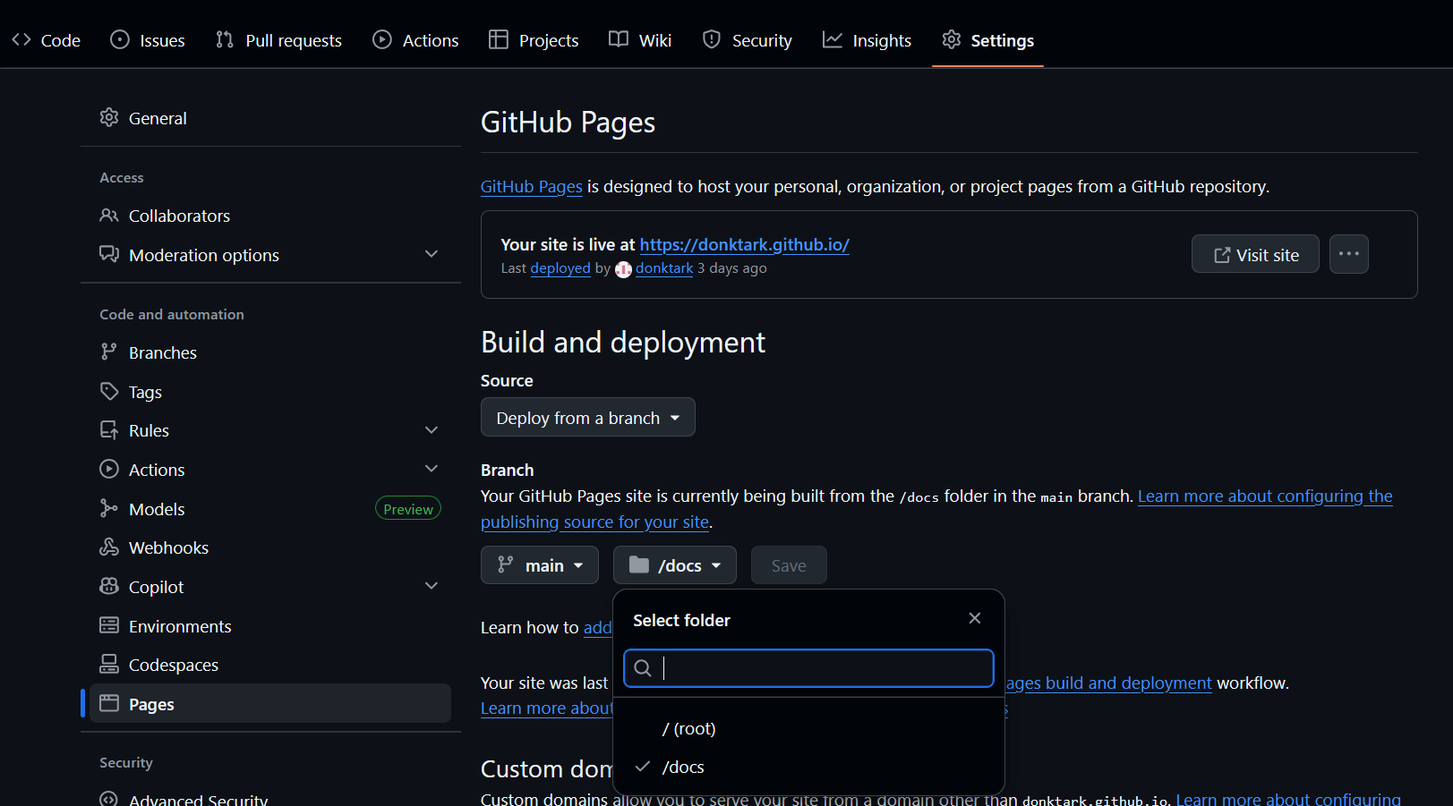
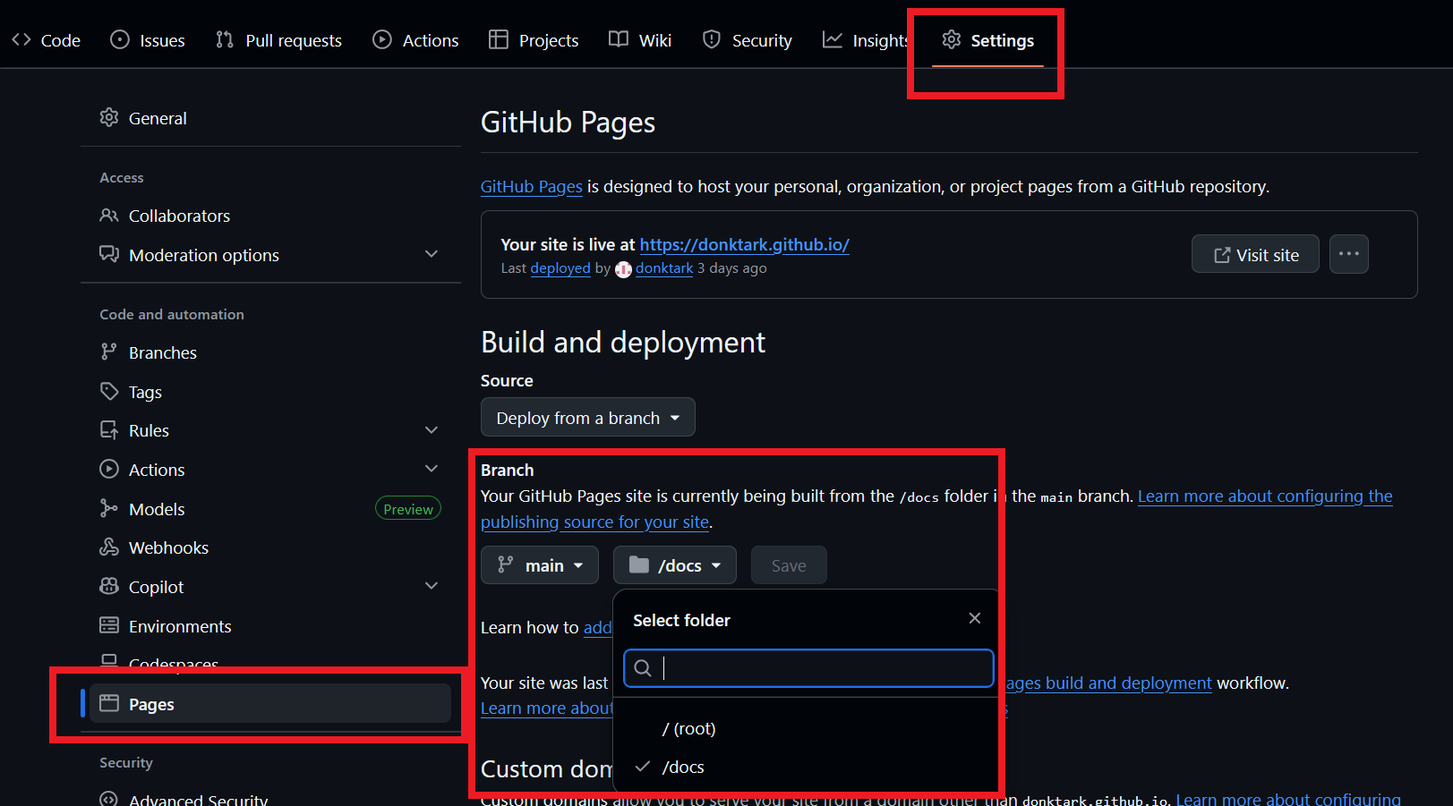
post image

Changed region(s): [[0.0308, 0.5283, 0.7086, 0.9945], [0.6161, 0.0, 0.7394, 0.1243]]

diff --git a/docs/posts/git_commit/index.html b/docs/posts/git_commit/index.html
@@ -1,6 +1,6 @@
 <!doctype html><html lang=en dir=auto><head><meta charset=utf-8><meta http-equiv=X-UA-Compatible content="IE=edge"><meta name=viewport content="width=device-width,initial-scale=1,shrink-to-fit=no"><meta name=robots content="index, follow"><title>깃허브로 커밋하기 | My New Hugo Site</title><meta name=keywords content="tag:hugo"><meta name=description content="posts"><meta name=author content="Me"><link rel=canonical href=https://donktark.github.io/posts/git_commit/><link crossorigin=anonymous href=../../assets/css/stylesheet.8fe10233a706bc87f2e08b3cf97b8bd4c0a80f10675a143675d59212121037c0.css integrity="sha256-j+ECM6cGvIfy4Is8+XuL1MCoDxBnWhQ2ddWSEhIQN8A=" rel="preload stylesheet" as=style><link rel=icon href=https://donktark.github.io/favicon.ico><link rel=icon type=image/png sizes=16x16 href=https://donktark.github.io/favicon-16x16.png><link rel=icon type=image/png sizes=32x32 href=https://donktark.github.io/favicon-32x32.png><link rel=apple-touch-icon href=https://donktark.github.io/apple-touch-icon.png><link rel=mask-icon href=https://donktark.github.io/safari-pinned-tab.svg><meta name=theme-color content="#2e2e33"><meta name=msapplication-TileColor content="#2e2e33"><link rel=alternate hreflang=en href=https://donktark.github.io/posts/git_commit/><noscript><style>#theme-toggle,.top-link{display:none}</style><style>@media(prefers-color-scheme:dark){:root{--theme:rgb(29, 30, 32);--entry:rgb(46, 46, 51);--primary:rgb(218, 218, 219);--secondary:rgb(155, 156, 157);--tertiary:rgb(65, 66, 68);--content:rgb(196, 196, 197);--code-block-bg:rgb(46, 46, 51);--code-bg:rgb(55, 56, 62);--border:rgb(51, 51, 51)}.list{background:var(--theme)}.list:not(.dark)::-webkit-scrollbar-track{background:0 0}.list:not(.dark)::-webkit-scrollbar-thumb{border-color:var(--theme)}}</style></noscript><meta property="og:url" content="https://donktark.github.io/posts/git_commit/"><meta property="og:site_name" content="My New Hugo Site"><meta property="og:title" content="깃허브로 커밋하기"><meta property="og:description" content="posts"><meta property="og:locale" content="en"><meta property="og:type" content="article"><meta property="article:section" content="posts"><meta property="article:published_time" content="2025-07-24T17:21:16+09:00"><meta property="article:modified_time" content="2025-07-24T17:21:16+09:00"><meta property="article:tag" content="Tag:hugo"><meta name=twitter:card content="summary"><meta name=twitter:title content="깃허브로 커밋하기"><meta name=twitter:description content="posts"><script type=application/ld+json>{"@context":"https://schema.org","@type":"BreadcrumbList","itemListElement":[{"@type":"ListItem","position":1,"name":"Posts","item":"https://donktark.github.io/posts/"},{"@type":"ListItem","position":2,"name":"깃허브로 커밋하기","item":"https://donktark.github.io/posts/git_commit/"}]}</script><script type=application/ld+json>{"@context":"https://schema.org","@type":"BlogPosting","headline":"깃허브로 커밋하기","name":"깃허브로 커밋하기","description":"posts","keywords":["tag:hugo"],"articleBody":"깃허브.io로 커밋하기 Github.io 리포지토리 설정 바꾸기 변경사항 저장 및 깃 푸시 명령어 hugo xcopy /E /Y /I \"C:\\my-blog\\public\\* C:\\my-blog\\docs\" git add . git commit -m %1 git push origin main ","wordCount":"30","inLanguage":"en","datePublished":"2025-07-24T17:21:16+09:00","dateModified":"2025-07-24T17:21:16+09:00","author":{"@type":"Person","name":"Me"},"mainEntityOfPage":{"@type":"WebPage","@id":"https://donktark.github.io/posts/git_commit/"},"publisher":{"@type":"Organization","name":"My New Hugo Site","logo":{"@type":"ImageObject","url":"https://donktark.github.io/favicon.ico"}}}</script></head><body id=top><script>localStorage.getItem("pref-theme")==="dark"?document.body.classList.add("dark"):localStorage.getItem("pref-theme")==="light"?document.body.classList.remove("dark"):window.matchMedia("(prefers-color-scheme: dark)").matches&&document.body.classList.add("dark")</script><header class=header><nav class=nav><div class=logo><a href=https://donktark.github.io/ accesskey=h title="My New Hugo Site (Alt + H)">My New Hugo Site</a><div class=logo-switches><button id=theme-toggle accesskey=t title="(Alt + T)" aria-label="Toggle theme">
 <svg id="moon" width="24" height="18" viewBox="0 0 24 24" fill="none" stroke="currentColor" stroke-width="2" stroke-linecap="round" stroke-linejoin="round"><path d="M21 12.79A9 9 0 1111.21 3 7 7 0 0021 12.79z"/></svg>
-<svg id="sun" width="24" height="18" viewBox="0 0 24 24" fill="none" stroke="currentColor" stroke-width="2" stroke-linecap="round" stroke-linejoin="round"><circle cx="12" cy="12" r="5"/><line x1="12" y1="1" x2="12" y2="3"/><line x1="12" y1="21" x2="12" y2="23"/><line x1="4.22" y1="4.22" x2="5.64" y2="5.64"/><line x1="18.36" y1="18.36" x2="19.78" y2="19.78"/><line x1="1" y1="12" x2="3" y2="12"/><line x1="21" y1="12" x2="23" y2="12"/><line x1="4.22" y1="19.78" x2="5.64" y2="18.36"/><line x1="18.36" y1="5.64" x2="19.78" y2="4.22"/></svg></button></div></div><ul id=menu><li><a href=https://donktark.github.io/archives/ title=Archives><span>Archives</span></a></li><li><a href=https://donktark.github.io/posts/ title=Posts><span>Posts</span></a></li><li><a href=https://donktark.github.io/tags/ title=Tags><span>Tags</span></a></li><li><a href=https://donktark.github.io/about/ title=About><span>About</span></a></li></ul></nav></header><main class=main><article class=post-single><header class=post-header><div class=breadcrumbs><a href=https://donktark.github.io/>Home</a>&nbsp;»&nbsp;<a href=https://donktark.github.io/posts/>Posts</a></div><h1 class="post-title entry-hint-parent">깃허브로 커밋하기</h1><div class=post-meta><span title='2025-07-24 17:21:16 +0900 KST'>2025 Jul 24</span>&nbsp;·&nbsp;1 min&nbsp;·&nbsp;30 words&nbsp;·&nbsp;Me</div></header><div class=post-content><h1 id=깃허브io로-커밋하기>깃허브.io로 커밋하기<a hidden class=anchor aria-hidden=true href=#깃허브io로-커밋하기>#</a></h1><h3 id=githubio-리포지토리-설정-바꾸기>Github.io 리포지토리 설정 바꾸기<a hidden class=anchor aria-hidden=true href=#githubio-리포지토리-설정-바꾸기>#</a></h3><p><img loading=lazy src=../images/logo.jpg></p><h3 id=변경사항-저장-및-깃-푸시-명령어>변경사항 저장 및 깃 푸시 명령어<a hidden class=anchor aria-hidden=true href=#변경사항-저장-및-깃-푸시-명령어>#</a></h3><div class=highlight><pre tabindex=0 style=color:#f8f8f2;background-color:#272822;-moz-tab-size:4;-o-tab-size:4;tab-size:4><code class=language-bash data-lang=bash><span style=display:flex><span>hugo
+<svg id="sun" width="24" height="18" viewBox="0 0 24 24" fill="none" stroke="currentColor" stroke-width="2" stroke-linecap="round" stroke-linejoin="round"><circle cx="12" cy="12" r="5"/><line x1="12" y1="1" x2="12" y2="3"/><line x1="12" y1="21" x2="12" y2="23"/><line x1="4.22" y1="4.22" x2="5.64" y2="5.64"/><line x1="18.36" y1="18.36" x2="19.78" y2="19.78"/><line x1="1" y1="12" x2="3" y2="12"/><line x1="21" y1="12" x2="23" y2="12"/><line x1="4.22" y1="19.78" x2="5.64" y2="18.36"/><line x1="18.36" y1="5.64" x2="19.78" y2="4.22"/></svg></button></div></div><ul id=menu><li><a href=https://donktark.github.io/archives/ title=Archives><span>Archives</span></a></li><li><a href=https://donktark.github.io/posts/ title=Posts><span>Posts</span></a></li><li><a href=https://donktark.github.io/tags/ title=Tags><span>Tags</span></a></li><li><a href=https://donktark.github.io/about/ title=About><span>About</span></a></li></ul></nav></header><main class=main><article class=post-single><header class=post-header><div class=breadcrumbs><a href=https://donktark.github.io/>Home</a>&nbsp;»&nbsp;<a href=https://donktark.github.io/posts/>Posts</a></div><h1 class="post-title entry-hint-parent">깃허브로 커밋하기</h1><div class=post-meta><span title='2025-07-24 17:21:16 +0900 KST'>2025 Jul 24</span>&nbsp;·&nbsp;1 min&nbsp;·&nbsp;30 words&nbsp;·&nbsp;Me</div></header><div class=post-content><h1 id=깃허브io로-커밋하기>깃허브.io로 커밋하기<a hidden class=anchor aria-hidden=true href=#깃허브io로-커밋하기>#</a></h1><h3 id=githubio-리포지토리-설정-바꾸기>Github.io 리포지토리 설정 바꾸기<a hidden class=anchor aria-hidden=true href=#githubio-리포지토리-설정-바꾸기>#</a></h3><p><img loading=lazy src=../../posts/images/github_io_setting.png></p><h3 id=변경사항-저장-및-깃-푸시-명령어>변경사항 저장 및 깃 푸시 명령어<a hidden class=anchor aria-hidden=true href=#변경사항-저장-및-깃-푸시-명령어>#</a></h3><div class=highlight><pre tabindex=0 style=color:#f8f8f2;background-color:#272822;-moz-tab-size:4;-o-tab-size:4;tab-size:4><code class=language-bash data-lang=bash><span style=display:flex><span>hugo
 </span></span><span style=display:flex><span>xcopy /E /Y /I <span style=color:#e6db74>&#34;C:&lt;PATH&gt;\my-blog\public\* C:&lt;PATH&gt;\my-blog\docs&#34;</span>
 </span></span><span style=display:flex><span>git add .
 </span></span><span style=display:flex><span>git commit -m %1

diff --git a/public/posts/git_commit/index.html b/public/posts/git_commit/index.html
@@ -1,6 +1,6 @@
 <!doctype html><html lang=en dir=auto><head><meta charset=utf-8><meta http-equiv=X-UA-Compatible content="IE=edge"><meta name=viewport content="width=device-width,initial-scale=1,shrink-to-fit=no"><meta name=robots content="index, follow"><title>깃허브로 커밋하기 | My New Hugo Site</title><meta name=keywords content="tag:hugo"><meta name=description content="posts"><meta name=author content="Me"><link rel=canonical href=https://donktark.github.io/posts/git_commit/><link crossorigin=anonymous href=../../assets/css/stylesheet.8fe10233a706bc87f2e08b3cf97b8bd4c0a80f10675a143675d59212121037c0.css integrity="sha256-j+ECM6cGvIfy4Is8+XuL1MCoDxBnWhQ2ddWSEhIQN8A=" rel="preload stylesheet" as=style><link rel=icon href=https://donktark.github.io/favicon.ico><link rel=icon type=image/png sizes=16x16 href=https://donktark.github.io/favicon-16x16.png><link rel=icon type=image/png sizes=32x32 href=https://donktark.github.io/favicon-32x32.png><link rel=apple-touch-icon href=https://donktark.github.io/apple-touch-icon.png><link rel=mask-icon href=https://donktark.github.io/safari-pinned-tab.svg><meta name=theme-color content="#2e2e33"><meta name=msapplication-TileColor content="#2e2e33"><link rel=alternate hreflang=en href=https://donktark.github.io/posts/git_commit/><noscript><style>#theme-toggle,.top-link{display:none}</style><style>@media(prefers-color-scheme:dark){:root{--theme:rgb(29, 30, 32);--entry:rgb(46, 46, 51);--primary:rgb(218, 218, 219);--secondary:rgb(155, 156, 157);--tertiary:rgb(65, 66, 68);--content:rgb(196, 196, 197);--code-block-bg:rgb(46, 46, 51);--code-bg:rgb(55, 56, 62);--border:rgb(51, 51, 51)}.list{background:var(--theme)}.list:not(.dark)::-webkit-scrollbar-track{background:0 0}.list:not(.dark)::-webkit-scrollbar-thumb{border-color:var(--theme)}}</style></noscript><meta property="og:url" content="https://donktark.github.io/posts/git_commit/"><meta property="og:site_name" content="My New Hugo Site"><meta property="og:title" content="깃허브로 커밋하기"><meta property="og:description" content="posts"><meta property="og:locale" content="en"><meta property="og:type" content="article"><meta property="article:section" content="posts"><meta property="article:published_time" content="2025-07-24T17:21:16+09:00"><meta property="article:modified_time" content="2025-07-24T17:21:16+09:00"><meta property="article:tag" content="Tag:hugo"><meta name=twitter:card content="summary"><meta name=twitter:title content="깃허브로 커밋하기"><meta name=twitter:description content="posts"><script type=application/ld+json>{"@context":"https://schema.org","@type":"BreadcrumbList","itemListElement":[{"@type":"ListItem","position":1,"name":"Posts","item":"https://donktark.github.io/posts/"},{"@type":"ListItem","position":2,"name":"깃허브로 커밋하기","item":"https://donktark.github.io/posts/git_commit/"}]}</script><script type=application/ld+json>{"@context":"https://schema.org","@type":"BlogPosting","headline":"깃허브로 커밋하기","name":"깃허브로 커밋하기","description":"posts","keywords":["tag:hugo"],"articleBody":"깃허브.io로 커밋하기 Github.io 리포지토리 설정 바꾸기 변경사항 저장 및 깃 푸시 명령어 hugo xcopy /E /Y /I \"C:\\my-blog\\public\\* C:\\my-blog\\docs\" git add . git commit -m %1 git push origin main ","wordCount":"30","inLanguage":"en","datePublished":"2025-07-24T17:21:16+09:00","dateModified":"2025-07-24T17:21:16+09:00","author":{"@type":"Person","name":"Me"},"mainEntityOfPage":{"@type":"WebPage","@id":"https://donktark.github.io/posts/git_commit/"},"publisher":{"@type":"Organization","name":"My New Hugo Site","logo":{"@type":"ImageObject","url":"https://donktark.github.io/favicon.ico"}}}</script></head><body id=top><script>localStorage.getItem("pref-theme")==="dark"?document.body.classList.add("dark"):localStorage.getItem("pref-theme")==="light"?document.body.classList.remove("dark"):window.matchMedia("(prefers-color-scheme: dark)").matches&&document.body.classList.add("dark")</script><header class=header><nav class=nav><div class=logo><a href=https://donktark.github.io/ accesskey=h title="My New Hugo Site (Alt + H)">My New Hugo Site</a><div class=logo-switches><button id=theme-toggle accesskey=t title="(Alt + T)" aria-label="Toggle theme">
 <svg id="moon" width="24" height="18" viewBox="0 0 24 24" fill="none" stroke="currentColor" stroke-width="2" stroke-linecap="round" stroke-linejoin="round"><path d="M21 12.79A9 9 0 1111.21 3 7 7 0 0021 12.79z"/></svg>
-<svg id="sun" width="24" height="18" viewBox="0 0 24 24" fill="none" stroke="currentColor" stroke-width="2" stroke-linecap="round" stroke-linejoin="round"><circle cx="12" cy="12" r="5"/><line x1="12" y1="1" x2="12" y2="3"/><line x1="12" y1="21" x2="12" y2="23"/><line x1="4.22" y1="4.22" x2="5.64" y2="5.64"/><line x1="18.36" y1="18.36" x2="19.78" y2="19.78"/><line x1="1" y1="12" x2="3" y2="12"/><line x1="21" y1="12" x2="23" y2="12"/><line x1="4.22" y1="19.78" x2="5.64" y2="18.36"/><line x1="18.36" y1="5.64" x2="19.78" y2="4.22"/></svg></button></div></div><ul id=menu><li><a href=https://donktark.github.io/archives/ title=Archives><span>Archives</span></a></li><li><a href=https://donktark.github.io/posts/ title=Posts><span>Posts</span></a></li><li><a href=https://donktark.github.io/tags/ title=Tags><span>Tags</span></a></li><li><a href=https://donktark.github.io/about/ title=About><span>About</span></a></li></ul></nav></header><main class=main><article class=post-single><header class=post-header><div class=breadcrumbs><a href=https://donktark.github.io/>Home</a>&nbsp;»&nbsp;<a href=https://donktark.github.io/posts/>Posts</a></div><h1 class="post-title entry-hint-parent">깃허브로 커밋하기</h1><div class=post-meta><span title='2025-07-24 17:21:16 +0900 KST'>2025 Jul 24</span>&nbsp;·&nbsp;1 min&nbsp;·&nbsp;30 words&nbsp;·&nbsp;Me</div></header><div class=post-content><h1 id=깃허브io로-커밋하기>깃허브.io로 커밋하기<a hidden class=anchor aria-hidden=true href=#깃허브io로-커밋하기>#</a></h1><h3 id=githubio-리포지토리-설정-바꾸기>Github.io 리포지토리 설정 바꾸기<a hidden class=anchor aria-hidden=true href=#githubio-리포지토리-설정-바꾸기>#</a></h3><p><img loading=lazy src=../images/logo.jpg></p><h3 id=변경사항-저장-및-깃-푸시-명령어>변경사항 저장 및 깃 푸시 명령어<a hidden class=anchor aria-hidden=true href=#변경사항-저장-및-깃-푸시-명령어>#</a></h3><div class=highlight><pre tabindex=0 style=color:#f8f8f2;background-color:#272822;-moz-tab-size:4;-o-tab-size:4;tab-size:4><code class=language-bash data-lang=bash><span style=display:flex><span>hugo
+<svg id="sun" width="24" height="18" viewBox="0 0 24 24" fill="none" stroke="currentColor" stroke-width="2" stroke-linecap="round" stroke-linejoin="round"><circle cx="12" cy="12" r="5"/><line x1="12" y1="1" x2="12" y2="3"/><line x1="12" y1="21" x2="12" y2="23"/><line x1="4.22" y1="4.22" x2="5.64" y2="5.64"/><line x1="18.36" y1="18.36" x2="19.78" y2="19.78"/><line x1="1" y1="12" x2="3" y2="12"/><line x1="21" y1="12" x2="23" y2="12"/><line x1="4.22" y1="19.78" x2="5.64" y2="18.36"/><line x1="18.36" y1="5.64" x2="19.78" y2="4.22"/></svg></button></div></div><ul id=menu><li><a href=https://donktark.github.io/archives/ title=Archives><span>Archives</span></a></li><li><a href=https://donktark.github.io/posts/ title=Posts><span>Posts</span></a></li><li><a href=https://donktark.github.io/tags/ title=Tags><span>Tags</span></a></li><li><a href=https://donktark.github.io/about/ title=About><span>About</span></a></li></ul></nav></header><main class=main><article class=post-single><header class=post-header><div class=breadcrumbs><a href=https://donktark.github.io/>Home</a>&nbsp;»&nbsp;<a href=https://donktark.github.io/posts/>Posts</a></div><h1 class="post-title entry-hint-parent">깃허브로 커밋하기</h1><div class=post-meta><span title='2025-07-24 17:21:16 +0900 KST'>2025 Jul 24</span>&nbsp;·&nbsp;1 min&nbsp;·&nbsp;30 words&nbsp;·&nbsp;Me</div></header><div class=post-content><h1 id=깃허브io로-커밋하기>깃허브.io로 커밋하기<a hidden class=anchor aria-hidden=true href=#깃허브io로-커밋하기>#</a></h1><h3 id=githubio-리포지토리-설정-바꾸기>Github.io 리포지토리 설정 바꾸기<a hidden class=anchor aria-hidden=true href=#githubio-리포지토리-설정-바꾸기>#</a></h3><p><img loading=lazy src=../../posts/images/github_io_setting.png></p><h3 id=변경사항-저장-및-깃-푸시-명령어>변경사항 저장 및 깃 푸시 명령어<a hidden class=anchor aria-hidden=true href=#변경사항-저장-및-깃-푸시-명령어>#</a></h3><div class=highlight><pre tabindex=0 style=color:#f8f8f2;background-color:#272822;-moz-tab-size:4;-o-tab-size:4;tab-size:4><code class=language-bash data-lang=bash><span style=display:flex><span>hugo
 </span></span><span style=display:flex><span>xcopy /E /Y /I <span style=color:#e6db74>&#34;C:&lt;PATH&gt;\my-blog\public\* C:&lt;PATH&gt;\my-blog\docs&#34;</span>
 </span></span><span style=display:flex><span>git add .
 </span></span><span style=display:flex><span>git commit -m %1

diff --git a/docs/index.html b/docs/index.html
@@ -1,6 +1,6 @@
 <!doctype html><html lang=en dir=auto><head><meta name=generator content="Hugo 0.148.1"><meta charset=utf-8><meta http-equiv=X-UA-Compatible content="IE=edge"><meta name=viewport content="width=device-width,initial-scale=1,shrink-to-fit=no"><meta name=robots content="index, follow"><title>My New Hugo Site</title><meta name=keywords content="Blog,Portfolio,PaperMod"><meta name=description content="SSG를 이용한 github.io 기술 블로그입니다."><meta name=author content="Me"><link rel=canonical href=https://donktark.github.io/><link crossorigin=anonymous href=./assets/css/stylesheet.8fe10233a706bc87f2e08b3cf97b8bd4c0a80f10675a143675d59212121037c0.css integrity="sha256-j+ECM6cGvIfy4Is8+XuL1MCoDxBnWhQ2ddWSEhIQN8A=" rel="preload stylesheet" as=style><link rel=icon href=https://donktark.github.io/favicon.ico><link rel=icon type=image/png sizes=16x16 href=https://donktark.github.io/favicon-16x16.png><link rel=icon type=image/png sizes=32x32 href=https://donktark.github.io/favicon-32x32.png><link rel=apple-touch-icon href=https://donktark.github.io/apple-touch-icon.png><link rel=mask-icon href=https://donktark.github.io/safari-pinned-tab.svg><meta name=theme-color content="#2e2e33"><meta name=msapplication-TileColor content="#2e2e33"><link rel=alternate type=application/rss+xml href=https://donktark.github.io/index.xml><link rel=alternate hreflang=en href=https://donktark.github.io/><noscript><style>#theme-toggle,.top-link{display:none}</style><style>@media(prefers-color-scheme:dark){:root{--theme:rgb(29, 30, 32);--entry:rgb(46, 46, 51);--primary:rgb(218, 218, 219);--secondary:rgb(155, 156, 157);--tertiary:rgb(65, 66, 68);--content:rgb(196, 196, 197);--code-block-bg:rgb(46, 46, 51);--code-bg:rgb(55, 56, 62);--border:rgb(51, 51, 51)}.list{background:var(--theme)}.list:not(.dark)::-webkit-scrollbar-track{background:0 0}.list:not(.dark)::-webkit-scrollbar-thumb{border-color:var(--theme)}}</style></noscript><meta property="og:url" content="https://donktark.github.io/"><meta property="og:site_name" content="My New Hugo Site"><meta property="og:title" content="My New Hugo Site"><meta property="og:description" content="SSG를 이용한 github.io 기술 블로그입니다."><meta property="og:locale" content="en"><meta property="og:type" content="website"><meta name=twitter:card content="summary"><meta name=twitter:title content="My New Hugo Site"><meta name=twitter:description content="SSG를 이용한 github.io 기술 블로그입니다."><script type=application/ld+json>{"@context":"https://schema.org","@type":"Organization","name":"My New Hugo Site","url":"https://donktark.github.io/","description":"SSG를 이용한 github.io 기술 블로그입니다.","logo":"https://donktark.github.io/favicon.ico","sameAs":[]}</script></head><body class=list id=top><script>localStorage.getItem("pref-theme")==="dark"?document.body.classList.add("dark"):localStorage.getItem("pref-theme")==="light"?document.body.classList.remove("dark"):window.matchMedia("(prefers-color-scheme: dark)").matches&&document.body.classList.add("dark")</script><header class=header><nav class=nav><div class=logo><a href=https://donktark.github.io/ accesskey=h title="My New Hugo Site (Alt + H)">My New Hugo Site</a><div class=logo-switches><button id=theme-toggle accesskey=t title="(Alt + T)" aria-label="Toggle theme">
 <svg id="moon" width="24" height="18" viewBox="0 0 24 24" fill="none" stroke="currentColor" stroke-width="2" stroke-linecap="round" stroke-linejoin="round"><path d="M21 12.79A9 9 0 1111.21 3 7 7 0 0021 12.79z"/></svg>
-<svg id="sun" width="24" height="18" viewBox="0 0 24 24" fill="none" stroke="currentColor" stroke-width="2" stroke-linecap="round" stroke-linejoin="round"><circle cx="12" cy="12" r="5"/><line x1="12" y1="1" x2="12" y2="3"/><line x1="12" y1="21" x2="12" y2="23"/><line x1="4.22" y1="4.22" x2="5.64" y2="5.64"/><line x1="18.36" y1="18.36" x2="19.78" y2="19.78"/><line x1="1" y1="12" x2="3" y2="12"/><line x1="21" y1="12" x2="23" y2="12"/><line x1="4.22" y1="19.78" x2="5.64" y2="18.36"/><line x1="18.36" y1="5.64" x2="19.78" y2="4.22"/></svg></button></div></div><ul id=menu><li><a href=https://donktark.github.io/archives/ title=Archives><span>Archives</span></a></li><li><a href=https://donktark.github.io/posts/ title=Posts><span>Posts</span></a></li><li><a href=https://donktark.github.io/tags/ title=Tags><span>Tags</span></a></li><li><a href=https://donktark.github.io/about/ title=About><span>About</span></a></li></ul></nav></header><main class=main><div class=profile><div class=profile_inner><img draggable=false src=https://donktark.github.io/images/logo.jpg alt=Puppy title=Puppy height=120 width=120><h1>Github.io Blog __🖋</h1><span>SSG (Hugo)를 이용한 블로그 만들기</span><div class=social-icons></div><div class=buttons><a class=button href=./archive/ rel=noopener title=Archive><span class=button-inner>Archive
+<svg id="sun" width="24" height="18" viewBox="0 0 24 24" fill="none" stroke="currentColor" stroke-width="2" stroke-linecap="round" stroke-linejoin="round"><circle cx="12" cy="12" r="5"/><line x1="12" y1="1" x2="12" y2="3"/><line x1="12" y1="21" x2="12" y2="23"/><line x1="4.22" y1="4.22" x2="5.64" y2="5.64"/><line x1="18.36" y1="18.36" x2="19.78" y2="19.78"/><line x1="1" y1="12" x2="3" y2="12"/><line x1="21" y1="12" x2="23" y2="12"/><line x1="4.22" y1="19.78" x2="5.64" y2="18.36"/><line x1="18.36" y1="5.64" x2="19.78" y2="4.22"/></svg></button></div></div><ul id=menu><li><a href=https://donktark.github.io/archives/ title=Archives><span>Archives</span></a></li><li><a href=https://donktark.github.io/posts/ title=Posts><span>Posts</span></a></li><li><a href=https://donktark.github.io/tags/ title=Tags><span>Tags</span></a></li><li><a href=https://donktark.github.io/about/ title=About><span>About</span></a></li></ul></nav></header><main class=main><div class=profile><div class=profile_inner><img draggable=false src=https://donktark.github.io/images/logo.jpg alt=Puppy title=Puppy height=120 width=120><h1>Github.io Blog __🖋</h1><span>SSG (Hugo)를 이용한 블로그 만들기</span><div class=social-icons></div><div class=buttons><a class=button href=./archives/ rel=noopener title=Archives><span class=button-inner>Archives
 </span></a><a class=button href=https://github.com/donktark/donktark.github.io rel=noopener title=Github><span class=button-inner>Github&nbsp;
 <svg fill="none" shape-rendering="geometricPrecision" stroke="currentColor" stroke-linecap="round" stroke-linejoin="round" stroke-width="2.5" viewBox="0 0 24 24" height="14" width="14"><path d="M18 13v6a2 2 0 01-2 2H5a2 2 0 01-2-2V8a2 2 0 012-2h6"/><path d="M15 3h6v6"/><path d="M10 14 21 3"/></svg></span></a></div></div></div></main><footer class=footer><span>&copy; 2025 <a href=https://donktark.github.io/>My New Hugo Site</a></span> ·
 <span>Powered by

diff --git a/public/index.html b/public/index.html
@@ -1,6 +1,6 @@
 <!doctype html><html lang=en dir=auto><head><meta name=generator content="Hugo 0.148.1"><meta charset=utf-8><meta http-equiv=X-UA-Compatible content="IE=edge"><meta name=viewport content="width=device-width,initial-scale=1,shrink-to-fit=no"><meta name=robots content="index, follow"><title>My New Hugo Site</title><meta name=keywords content="Blog,Portfolio,PaperMod"><meta name=description content="SSG를 이용한 github.io 기술 블로그입니다."><meta name=author content="Me"><link rel=canonical href=https://donktark.github.io/><link crossorigin=anonymous href=./assets/css/stylesheet.8fe10233a706bc87f2e08b3cf97b8bd4c0a80f10675a143675d59212121037c0.css integrity="sha256-j+ECM6cGvIfy4Is8+XuL1MCoDxBnWhQ2ddWSEhIQN8A=" rel="preload stylesheet" as=style><link rel=icon href=https://donktark.github.io/favicon.ico><link rel=icon type=image/png sizes=16x16 href=https://donktark.github.io/favicon-16x16.png><link rel=icon type=image/png sizes=32x32 href=https://donktark.github.io/favicon-32x32.png><link rel=apple-touch-icon href=https://donktark.github.io/apple-touch-icon.png><link rel=mask-icon href=https://donktark.github.io/safari-pinned-tab.svg><meta name=theme-color content="#2e2e33"><meta name=msapplication-TileColor content="#2e2e33"><link rel=alternate type=application/rss+xml href=https://donktark.github.io/index.xml><link rel=alternate hreflang=en href=https://donktark.github.io/><noscript><style>#theme-toggle,.top-link{display:none}</style><style>@media(prefers-color-scheme:dark){:root{--theme:rgb(29, 30, 32);--entry:rgb(46, 46, 51);--primary:rgb(218, 218, 219);--secondary:rgb(155, 156, 157);--tertiary:rgb(65, 66, 68);--content:rgb(196, 196, 197);--code-block-bg:rgb(46, 46, 51);--code-bg:rgb(55, 56, 62);--border:rgb(51, 51, 51)}.list{background:var(--theme)}.list:not(.dark)::-webkit-scrollbar-track{background:0 0}.list:not(.dark)::-webkit-scrollbar-thumb{border-color:var(--theme)}}</style></noscript><meta property="og:url" content="https://donktark.github.io/"><meta property="og:site_name" content="My New Hugo Site"><meta property="og:title" content="My New Hugo Site"><meta property="og:description" content="SSG를 이용한 github.io 기술 블로그입니다."><meta property="og:locale" content="en"><meta property="og:type" content="website"><meta name=twitter:card content="summary"><meta name=twitter:title content="My New Hugo Site"><meta name=twitter:description content="SSG를 이용한 github.io 기술 블로그입니다."><script type=application/ld+json>{"@context":"https://schema.org","@type":"Organization","name":"My New Hugo Site","url":"https://donktark.github.io/","description":"SSG를 이용한 github.io 기술 블로그입니다.","logo":"https://donktark.github.io/favicon.ico","sameAs":[]}</script></head><body class=list id=top><script>localStorage.getItem("pref-theme")==="dark"?document.body.classList.add("dark"):localStorage.getItem("pref-theme")==="light"?document.body.classList.remove("dark"):window.matchMedia("(prefers-color-scheme: dark)").matches&&document.body.classList.add("dark")</script><header class=header><nav class=nav><div class=logo><a href=https://donktark.github.io/ accesskey=h title="My New Hugo Site (Alt + H)">My New Hugo Site</a><div class=logo-switches><button id=theme-toggle accesskey=t title="(Alt + T)" aria-label="Toggle theme">
 <svg id="moon" width="24" height="18" viewBox="0 0 24 24" fill="none" stroke="currentColor" stroke-width="2" stroke-linecap="round" stroke-linejoin="round"><path d="M21 12.79A9 9 0 1111.21 3 7 7 0 0021 12.79z"/></svg>
-<svg id="sun" width="24" height="18" viewBox="0 0 24 24" fill="none" stroke="currentColor" stroke-width="2" stroke-linecap="round" stroke-linejoin="round"><circle cx="12" cy="12" r="5"/><line x1="12" y1="1" x2="12" y2="3"/><line x1="12" y1="21" x2="12" y2="23"/><line x1="4.22" y1="4.22" x2="5.64" y2="5.64"/><line x1="18.36" y1="18.36" x2="19.78" y2="19.78"/><line x1="1" y1="12" x2="3" y2="12"/><line x1="21" y1="12" x2="23" y2="12"/><line x1="4.22" y1="19.78" x2="5.64" y2="18.36"/><line x1="18.36" y1="5.64" x2="19.78" y2="4.22"/></svg></button></div></div><ul id=menu><li><a href=https://donktark.github.io/archives/ title=Archives><span>Archives</span></a></li><li><a href=https://donktark.github.io/posts/ title=Posts><span>Posts</span></a></li><li><a href=https://donktark.github.io/tags/ title=Tags><span>Tags</span></a></li><li><a href=https://donktark.github.io/about/ title=About><span>About</span></a></li></ul></nav></header><main class=main><div class=profile><div class=profile_inner><img draggable=false src=https://donktark.github.io/images/logo.jpg alt=Puppy title=Puppy height=120 width=120><h1>Github.io Blog __🖋</h1><span>SSG (Hugo)를 이용한 블로그 만들기</span><div class=social-icons></div><div class=buttons><a class=button href=./archive/ rel=noopener title=Archive><span class=button-inner>Archive
+<svg id="sun" width="24" height="18" viewBox="0 0 24 24" fill="none" stroke="currentColor" stroke-width="2" stroke-linecap="round" stroke-linejoin="round"><circle cx="12" cy="12" r="5"/><line x1="12" y1="1" x2="12" y2="3"/><line x1="12" y1="21" x2="12" y2="23"/><line x1="4.22" y1="4.22" x2="5.64" y2="5.64"/><line x1="18.36" y1="18.36" x2="19.78" y2="19.78"/><line x1="1" y1="12" x2="3" y2="12"/><line x1="21" y1="12" x2="23" y2="12"/><line x1="4.22" y1="19.78" x2="5.64" y2="18.36"/><line x1="18.36" y1="5.64" x2="19.78" y2="4.22"/></svg></button></div></div><ul id=menu><li><a href=https://donktark.github.io/archives/ title=Archives><span>Archives</span></a></li><li><a href=https://donktark.github.io/posts/ title=Posts><span>Posts</span></a></li><li><a href=https://donktark.github.io/tags/ title=Tags><span>Tags</span></a></li><li><a href=https://donktark.github.io/about/ title=About><span>About</span></a></li></ul></nav></header><main class=main><div class=profile><div class=profile_inner><img draggable=false src=https://donktark.github.io/images/logo.jpg alt=Puppy title=Puppy height=120 width=120><h1>Github.io Blog __🖋</h1><span>SSG (Hugo)를 이용한 블로그 만들기</span><div class=social-icons></div><div class=buttons><a class=button href=./archives/ rel=noopener title=Archives><span class=button-inner>Archives
 </span></a><a class=button href=https://github.com/donktark/donktark.github.io rel=noopener title=Github><span class=button-inner>Github&nbsp;
 <svg fill="none" shape-rendering="geometricPrecision" stroke="currentColor" stroke-linecap="round" stroke-linejoin="round" stroke-width="2.5" viewBox="0 0 24 24" height="14" width="14"><path d="M18 13v6a2 2 0 01-2 2H5a2 2 0 01-2-2V8a2 2 0 012-2h6"/><path d="M15 3h6v6"/><path d="M10 14 21 3"/></svg></span></a></div></div></div></main><footer class=footer><span>&copy; 2025 <a href=https://donktark.github.io/>My New Hugo Site</a></span> ·
 <span>Powered by

diff --git a/content/posts/git_commit.md b/content/posts/git_commit.md
@@ -14,7 +14,7 @@ tags : ["tag:hugo"]
 # 깃허브.io로 커밋하기
 
 ### Github.io 리포지토리 설정 바꾸기
-![](../images/logo.jpg)
+![](/posts/images/github_io_setting.png)
 
 ### 변경사항 저장 및 깃 푸시 명령어
 ```bash
